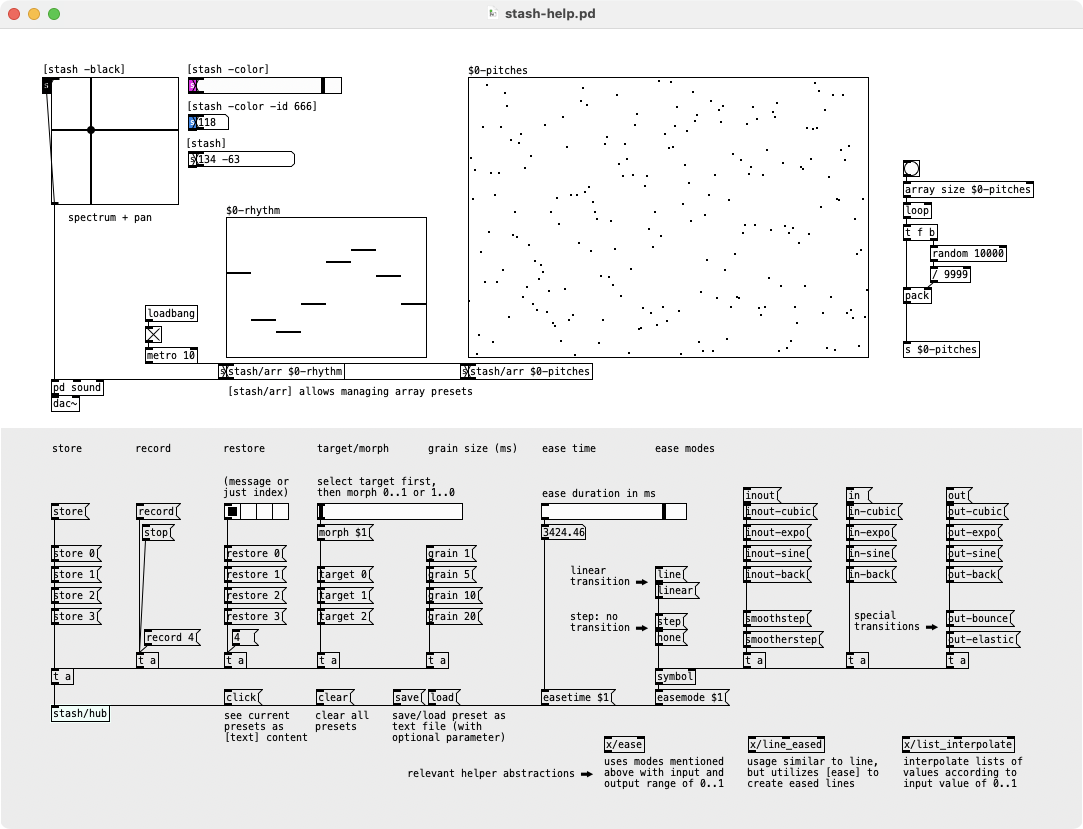
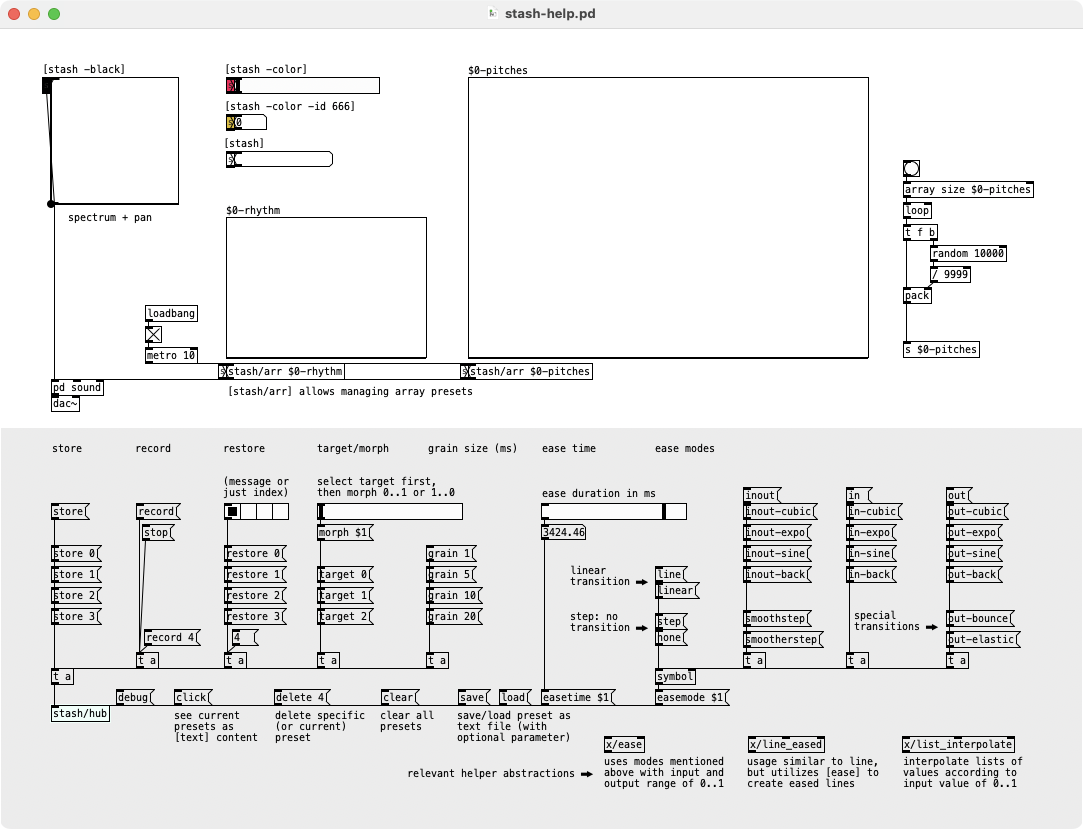
update image and readme

Changed region(s): [[0.0914, 0.8142, 0.518, 0.9047], [0.1524, 0.0603, 0.3352, 0.2111], [0.0609, 0.1508, 0.0914, 0.1809]]

diff --git a/README.md b/README.md
@@ -23,8 +23,9 @@ Puredata (Pd) abstractions for preset management, based on central [stash/hub] a
   * color will be generated based on the id if no argument is given
   * `-color black` will create a black object (this can also be achieved by just setting the `-black` flag)
   * you can set any hexadecimal value - e.g. `-color #ddff22`
-* manually set id via `-id <number>` flag or simply by adding a float argument
+* manually set id via `-id <id>` flag or simply by adding a float or symbol argument
 * avoid easing of values by adding `-noease` flag
+* output id and visualize by setting `-debug` flag
 
 see help of [stash] object for example application.
 
